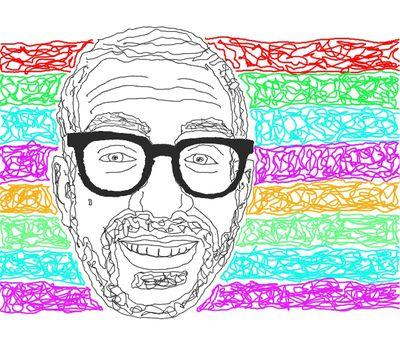
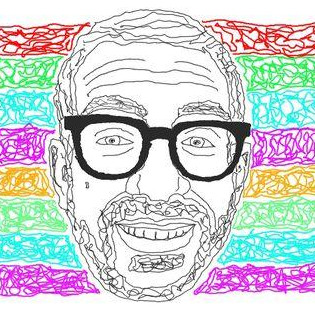
added tidbits, more reformatting

diff --git a/_sass/_layout.scss b/_sass/_layout.scss
@@ -6,6 +6,12 @@
     padding: 15px;
     }
 /* To center images */
+.border-wrap {
+    border: 8px solid $grey-color-light;
+    border-radius: 16px;
+
+    }
+
 .center {
         text-align: center;
     }
@@ -25,7 +31,7 @@
  */
 .site-header {
     padding: $spacing-unit 0;
-    border-bottom: 3px solid $grey-color-light;
+    border-bottom: 5px solid $grey-color-light;
     min-height: 100px;
 
     background-image: url("../banner.png");
@@ -128,7 +134,7 @@
 }
 
 .page-heading {
-    font-size: 20px;
+    font-size: 50px;
 }
 
 .post-list {
@@ -201,7 +207,7 @@
  * Site footer
  */
 .site-footer {
-    border-top: 3px solid $grey-color-light;
+    border-top: 5px solid $grey-color-light;
     padding: $spacing-unit 0;
     //margin-top: -150px;
 position:absolute;

diff --git a/css/main.scss b/css/main.scss
@@ -27,10 +27,10 @@ $blue-color-light: lighten($blue-color, 40%);
 $blue-color-dark:  darken($blue-color, 25%);
 
 // Width of the content area
-$content-width:    1000px;
+$content-width:    800px;
 
 $on-palm:          600px;
-$on-laptop:        1000px;
+$on-laptop:        800px;
 
 
 

diff --git a/index.html b/index.html
@@ -4,7 +4,7 @@ layout: default
 
 <div class="home">
 
-  <h1 class="page-heading">Posts</h1>
+  <h1 class="page-heading">posts</h1>
 
   <ul class="post-list">
     {% for post in site.posts %}

diff --git a/_sass/_base.scss b/_sass/_base.scss
@@ -43,6 +43,8 @@ ul, ol, dl, figure,
 img {
     max-width: 100%;
     vertical-align: middle;
+    border: 8px solid $grey-color-light;
+    border-radius: 16px;
 }
 
 

diff --git a/tidbits.md b/tidbits.md
@@ -1,16 +1,22 @@
 ---
 layout: page
-title: tutorials
-permalink: /tutorials/
+title: tidbits
+permalink: /tidbits/
+---
+
+a collection of pages that aren't quite tutorials, and aren't quite
+projects.  Just little snippets of knowlegde I felt like documenting.
+
 ---
 
 <div class="home">
 
 
+
   <ul class="post-list">
     {% for post in site.posts %}
     
-    {% if post.group == "tutorials" %}
+    {% if post.group == "tidbits" %}
       <li>
         <span class="post-meta">{{ post.date | date: "%b %-d, %Y" }}</span>
 

diff --git a/projects.md b/projects.md
@@ -1,6 +1,6 @@
 ---
 layout: page
-title: Projects
+title: projects
 permalink: /projects/
 ---
 

diff --git a/about.md b/about.md
@@ -1,6 +1,6 @@
 ---
 layout: page
-title: About
+title: about
 permalink: /about/
 ---
 
